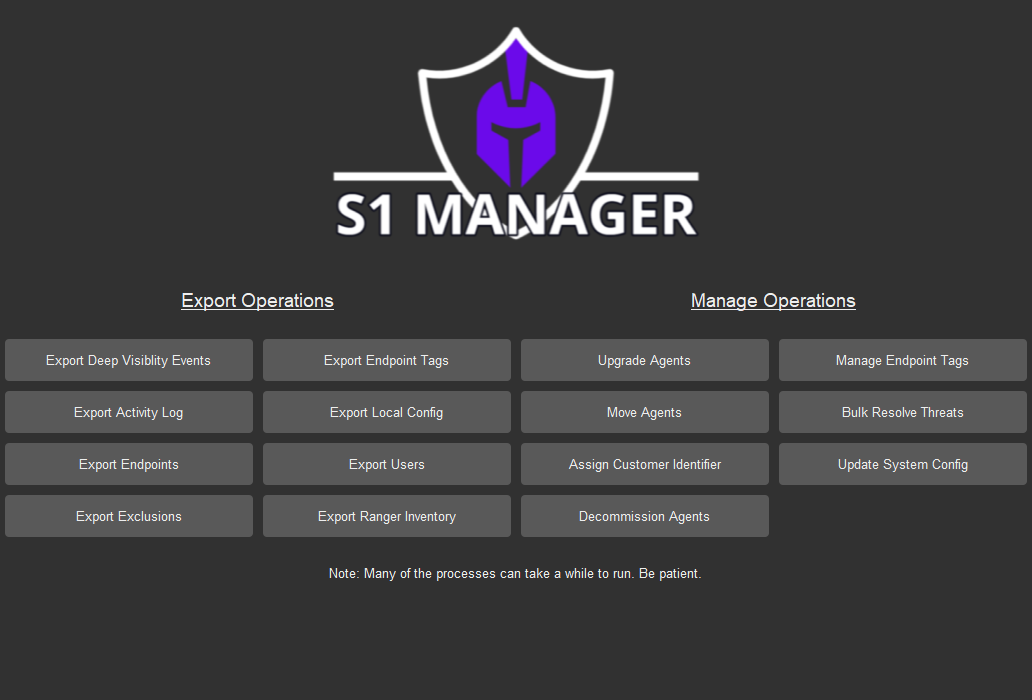
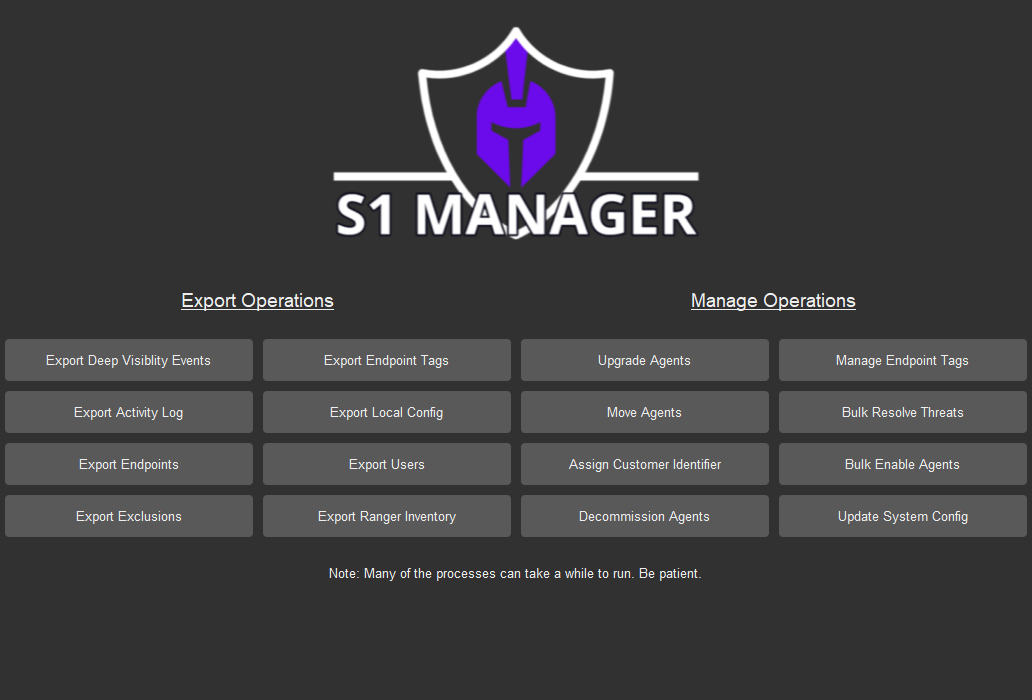
Bulk Enable Agents operation

Changed region(s): [[0.7442, 0.66, 1.0, 0.78]]

diff --git a/s1_manager.py b/s1_manager.py
@@ -25,7 +25,7 @@ from PIL import Image, ImageTk
 from xlsxwriter.workbook import Workbook
 
 # CONSTS
-__version__ = "2022.1.8"
+__version__ = "2022.2.0"
 API_VERSION = "v2.1"
 DIR_PATH = os.path.dirname(os.path.realpath(__file__))
 QUERY_LIMITS = "limit=1000"
@@ -81,6 +81,7 @@ DECOMMISSION_AGENTS_FRAME = ttk.Frame()
 MANAGE_ENDPOINT_TAGS_FRAME = ttk.Frame()
 BULK_RESOLVE_THREATS_FRAME = ttk.Frame()
 UPDATE_SYSTEM_CONFIG_FRAME = ttk.Frame()
+BULK_ENABLE_AGENTS_FRAME = ttk.Frame()
 ERROR = tk.StringVar()
 HOSTNAME = tk.StringVar()
 API_TOKEN = tk.StringVar()
@@ -2367,7 +2368,6 @@ def export_account_ids():
 
 def bulk_resolve_threats():
     """Function to resolve multiple incidents by threat detail string search or SHA1"""
-    # TODO: Test special chars
     scroll_text = ScrolledText.ScrolledText(
         master=BULK_RESOLVE_THREATS_FRAME, state="disabled", height=10
     )
@@ -2706,6 +2706,68 @@ def update_sys_config():
             logger.info("Finished.")
 
 
+def bulk_enable_agents():
+    scroll_text = ScrolledText.ScrolledText(
+        master=BULK_ENABLE_AGENTS_FRAME, state="disabled", height=10
+    )
+    scroll_text.configure(font=ST_FONT)
+    scroll_text.grid(row=13, column=0, columnspan=2, pady=10)
+    text_handler = TextHandler(scroll_text)
+    logging.basicConfig(
+        filename=LOG_NAME,
+        level=LOG_LEVEL,
+        format=LOG_FORMAT,
+    )
+    logger = logging.getLogger()
+    logger.addHandler(text_handler)
+
+    if not group_ids_list.get():
+        logger.error("Must input one or more Group IDs.")
+    else:
+        endpoint = f"/web/api/{API_VERSION}/agents/actions/enable-agent"
+        url = HOSTNAME.get() + endpoint
+        group_ids = [x for x in group_ids_list.get().split(",")]
+        logger.debug("ID List: %s", group_ids)
+
+        payload = json.dumps(
+            {
+                "data": {
+                    "shouldReboot": "false",
+                },
+                "filter": {"operationalStatesNin": "na", "groupIds": group_ids},
+            }
+        )
+
+        response = requests.post(
+            url=url,
+            headers=headers,
+            data=payload,
+            proxies={"http": PROXY.get(), "https": PROXY.get()},
+            verify=USE_SSL.get(),
+        )
+        logger.debug(
+            "Calling API with the following:\nURL: %s\tHeaders: %s\tProxy: %s\tUse SSL: %s",
+            url,
+            headers,
+            PROXY.get(),
+            USE_SSL.get(),
+        )
+        if response.status_code != 200:
+            logger.error(
+                "Status: %s Problem with the request. Details - %s ",
+                str(response.status_code),
+                str(response.text),
+            )
+            response.raise_for_status()
+        else:
+            data = response.json()
+            affected_agents = data.get("data").get("affected", "0")
+            logger.info("Enable Agent action sent to %s", group_ids)
+            logger.info("Total agents Enabled: %s", affected_agents)
+
+        logger.info("Finished.")
+
+
 # Login Menu Frame #############################
 tk.Label(master=LOGIN_MENU_FRAME, image=LOGO).grid(
     row=0, column=0, columnspan=1, pady=20
@@ -2870,10 +2932,16 @@ ttk.Button(
 ).grid(row=3, column=3, sticky="ew", ipady=5, pady=5, padx=5)
 ttk.Button(
     master=MAIN_MENU_FRAME,
+    text="Bulk Enable Agents",
+    command=partial(switch_frames, BULK_ENABLE_AGENTS_FRAME),
+    width=32,
+).grid(row=4, column=3, sticky="ew", ipady=5, pady=5, padx=5)
+ttk.Button(
+    master=MAIN_MENU_FRAME,
     text="Update System Config",
     command=partial(switch_frames, UPDATE_SYSTEM_CONFIG_FRAME),
     width=32,
-).grid(row=4, column=3, sticky="ew", ipady=5, pady=5, padx=5)
+).grid(row=5, column=3, sticky="ew", ipady=5, pady=5, padx=5)
 
 
 if LOG_LEVEL == logging.DEBUG:
@@ -3521,31 +3589,28 @@ ttk.Button(
 ).grid(row=10, column=0, columnspan=2, ipadx=10, pady=10)
 
 
-# Export Account, Site, Group IDs Frame #############################
-# tk.Label(
-#     master=UPDATE_SYSTEM_CONFIG_FRAME,
-#     text="Update System Config",
-#     font=FRAME_TITLE_FONT,
-# ).grid(row=0, column=0, columnspan=2, padx=20, pady=20)
-# tk.Label(
-#     master=UPDATE_SYSTEM_CONFIG_FRAME,
-#     text="Updates the system configuration settings for one or more Accounts.",
-#     font=FRAME_SUBTITLE_FONT,
-# ).grid(row=1, column=0, columnspan=2, padx=20, pady=2)
-# tk.Label(
-#     master=UPDATE_SYSTEM_CONFIG_FRAME,
-#     text="(Optional) Export CSV of all Account IDs",
-# ).grid(row=2, column=0, columnspan=2, padx=20, pady=2)
-# ttk.Button(
-#     master=UPDATE_SYSTEM_CONFIG_FRAME,
-#     text="Export",
-#     command=export_account_ids,
-# ).grid(row=3, column=0, columnspan=2, pady=10)
-# ttk.Button(
-#     master=UPDATE_SYSTEM_CONFIG_FRAME,
-#     text="Back to Main Menu",
-#     command=go_back_to_mainpage,
-# ).grid(row=12, column=0, columnspan=2, ipadx=10, pady=10)
-
+# Bulk Enable Agents Frame #############################
+tk.Label(
+    master=BULK_ENABLE_AGENTS_FRAME,
+    text="Bulk Enable Agents",
+    font=FRAME_TITLE_FONT,
+).grid(row=0, column=0, columnspan=2, padx=20, pady=20)
+tk.Label(
+    master=BULK_ENABLE_AGENTS_FRAME,
+    text="Send 'Enable Agent' action (without reboot) to all disabled agents in the specified list of Group IDs.",
+    font=FRAME_SUBTITLE_FONT,
+).grid(row=1, column=0, columnspan=2, padx=20, pady=2)
+group_ids_list = ttk.Entry(master=BULK_ENABLE_AGENTS_FRAME, width=80)
+group_ids_list.grid(row=2, column=0, columnspan=2, pady=10)
+ttk.Button(
+    master=BULK_ENABLE_AGENTS_FRAME,
+    text="Enable",
+    command=bulk_enable_agents,
+).grid(row=3, column=0, columnspan=2, pady=10)
+ttk.Button(
+    master=BULK_ENABLE_AGENTS_FRAME,
+    text="Back to Main Menu",
+    command=go_back_to_mainpage,
+).grid(row=4, column=0, columnspan=2, ipadx=10, pady=10)
 
 window.mainloop()

diff --git a/README.md b/README.md
@@ -25,8 +25,8 @@ The S1 Manager tool is a GUI-based application to assist SentinelOne administrat
 
 ### Download EXE
 To download the latest EXE build:
-- [https://github.com/DylanCS1/s1_manager/releases/download/v2022.1.8/s1_manager-2022.1.8.exe](https://github.com/DylanCS1/s1_manager/releases/download/v2022.1.8/s1_manager-2022.1.8.exe)
-- SHA1: 43671F10D3185BDC625AD72EFCED32C10822793E
+- [https://github.com/DylanCS1/s1_manager/releases/download/v2022.2.0/s1_manager-2022.2.0.exe](https://github.com/DylanCS1/s1_manager/releases/download/v2022.2.0/s1_manager-2022.2.0.exe)
+- SHA1: D664422EAE4A325FB7A334BFE6E610BB3CCF4868
 
 To download the pre-2022 release:
 - [https://github.com/DylanCS1/s1_manager/raw/main/.COMPILED/s1_manager-1.0.exe](https://github.com/DylanCS1/s1_manager/raw/main/.COMPILED/s1_manager-1.0.exe)
@@ -321,6 +321,18 @@ Process:
    - *SHA1* = One or more comma-separated SHA1s (do not include any whitespace)
 3. Select the **Analyst Verdict** from the drop-down: *undefined*, *suspicious*, *false_positive*, or *true_positive*
 4. Input one or more **Site IDs**, separated by a comma (do not include spaces)
+
+
+
+### Bulk Enable Agents
+
+Send 'Enable Agent' action to all agents that are disabled in one or more Groups. 
+
+> **Note:** This does not send a reboot request. This is intentional to avoid an accidental forcecd reboot of a large number of endpoints.
+
+Process:
+1. Input one or more group IDs to send **Enable Agent** action to
+   - *Group IDs* should be comma-separated without any whitespace characters
 
 
 
